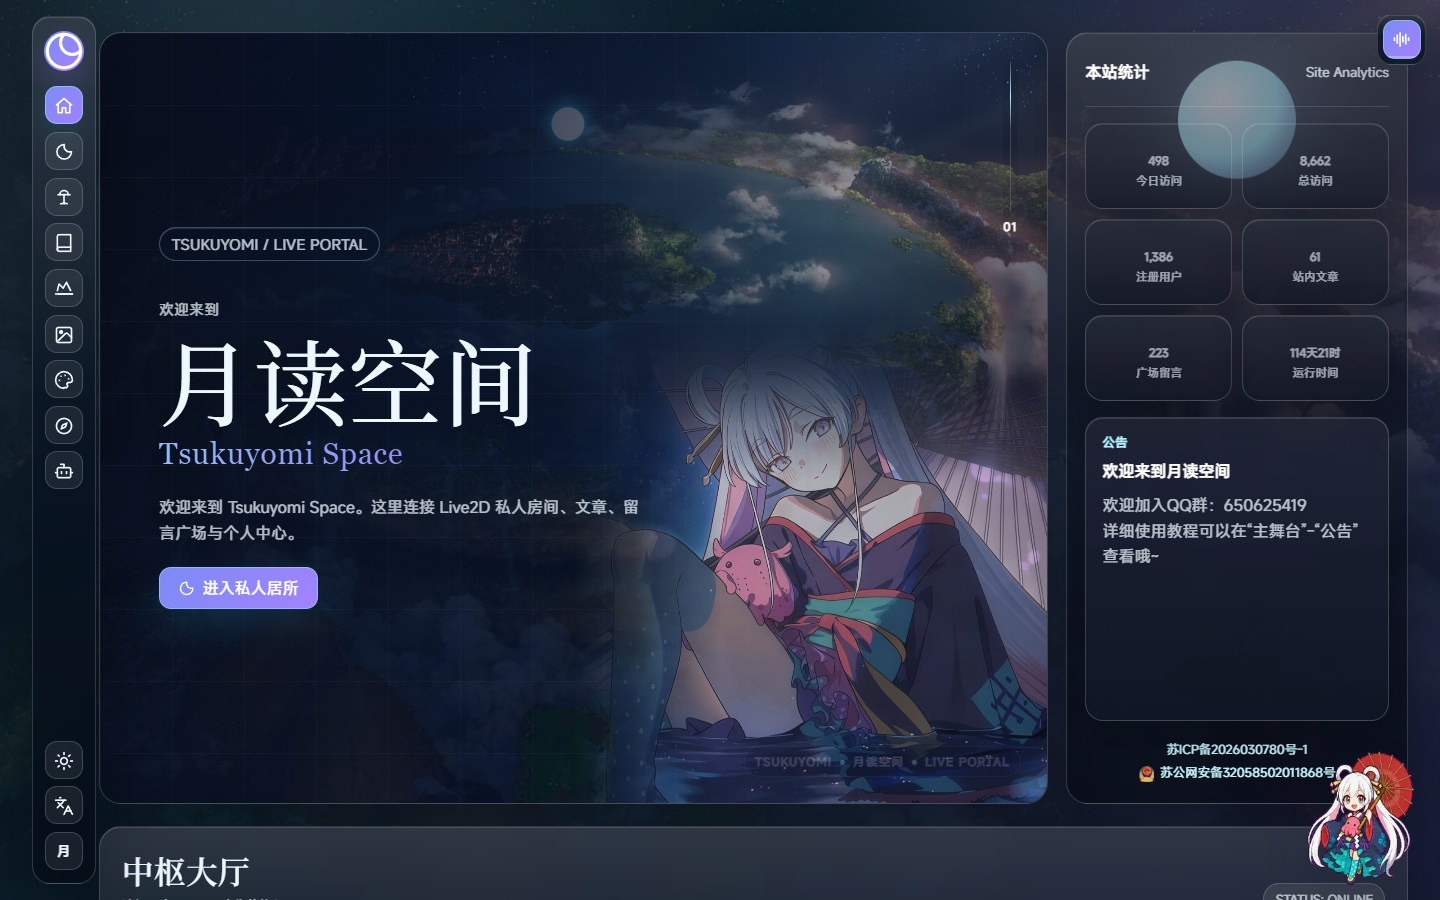
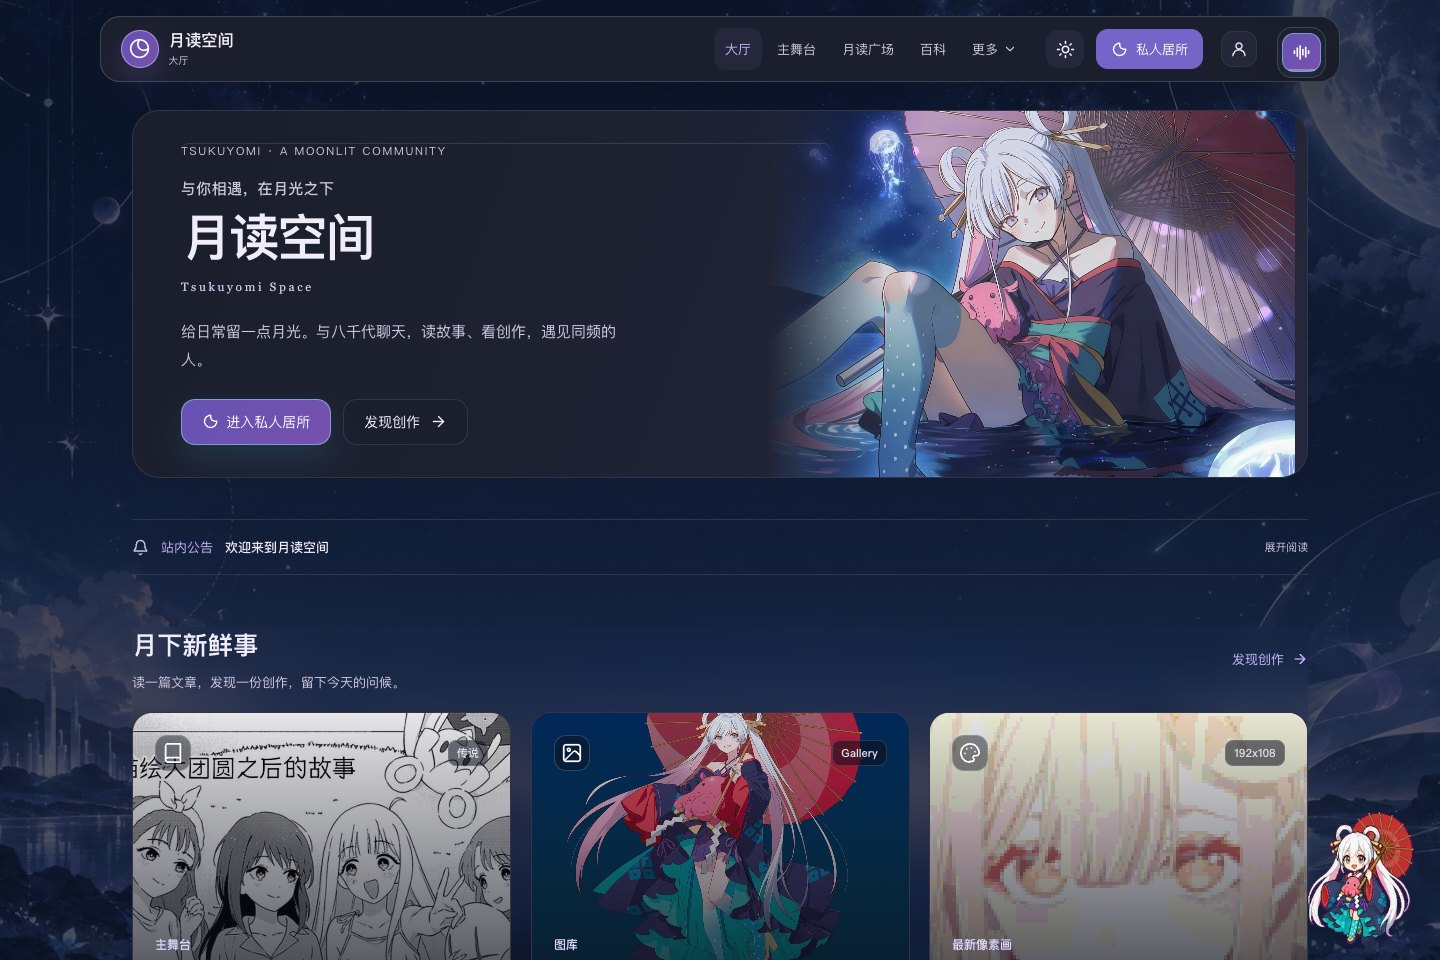
docs: refresh README and screenshots for redesigned frontend

diff --git a/README.md b/README.md
@@ -1,54 +1,160 @@
-# Tsukuyomi Space
-一个围绕《超时空辉夜姬！》世界观构建的非盈利同人社区与 Live2D AI 角色空间。
+# 月读空间 · Tsukuyomi Space
 
-项目以 Vue 3 与 Express 构建，把 Live2D 角色陪伴、账号隔离的长期记忆、内容创作、社区互动、成长任务和公开 Wiki 连接在同一个月读空间中。
+**给日常留一点月光。与八千代聊天，读故事、看创作，遇见同频的人。**
 
-## 在线访问
+围绕《超时空辉夜姬！》世界观构建的非盈利同人社区，以 Vue 3 + Express 连接 Live2D AI 陪伴、内容创作、社区互动与作品百科。
 
-| 站点 | 地址 | 语言与用途 |
-| --- | --- | --- |
-| 国内站 | [yachiyo.hk](https://yachiyo.hk) | 中文 / 日语切换，完整功能入口 |
-| 海外站 | [tsukuyomi-space.com](https://tsukuyomi-space.com) | 英文界面，海外访问入口 |
-| 站点动态 | [RSS](https://yachiyo.hk/feed.xml) · [JSON](https://yachiyo.hk/api/site-feed) | 文章、留言、图库、像素画与友链更新 |
+[国内站 · 中文 / 日语](https://yachiyo.hk) · [海外站 · English](https://tsukuyomi-space.com) · [部署指南](docs/DEPLOY.md) · [问题反馈](https://github.com/redchenk/tsukuyomi-space/issues)
 
-[![Tsukuyomi Space Hub](assets/images/readme/hub.jpg)](https://yachiyo.hk/hub)
+[项目预览](#项目预览) · [核心体验](#核心体验) · [快速开始](#快速开始) · [部署与配置](#部署与配置) · [开发文档](#开发文档) · [支持项目](#支持项目)
+
+[![月读空间新版首页：月光主题、私人居所入口与月下新鲜事](assets/images/readme/hub.jpg)](https://yachiyo.hk/hub)
 
 ## 项目预览
 
-| [Hub 中枢大厅](https://yachiyo.hk/hub) | [Live2D AI 私人房间](https://yachiyo.hk/room) |
+以下截图采集于 **2026-09-16**，来自国内站公开页面，使用 1440 × 960 桌面视口、未登录状态。站点内容与时间、天气场景会持续变化。
+
+| Live2D AI 私人居所 | 主舞台 · 文章与创作 |
 | --- | --- |
-| ![Hub 中枢大厅](assets/images/readme/hub.jpg) | ![Live2D AI 私人房间](assets/images/readme/room.jpg) |
-| [192×108 像素工坊](https://yachiyo.hk/pixel) | [超时空辉夜姬 Wiki](https://yachiyo.hk/wiki) |
-| ![192×108 像素工坊](assets/images/readme/pixel.jpg) | ![超时空辉夜姬 Wiki](assets/images/readme/wiki.jpg) |
+| [![Live2D AI 私人居所](assets/images/readme/room.jpg)](https://yachiyo.hk/room) | [![主舞台文章列表](assets/images/readme/stage.jpg)](https://yachiyo.hk/stage) |
+| **192 × 108 像素工坊** | **超时空辉夜姬 Wiki** |
+| [![像素工坊画布与绘画工具](assets/images/readme/pixel.jpg)](https://yachiyo.hk/pixel) | [![超时空辉夜姬百科首页](assets/images/readme/wiki.jpg)](https://yachiyo.hk/wiki) |
 
-## 支持项目
+## 核心体验
 
-如果月读空间为你带来了帮助，可以通过爱发电自愿支持服务器、对象存储、CDN 与持续维护。支持不会影响站内功能、内容审核或用户权限。
+- **与八千代相伴**：Live2D 角色、聊天、表情、TTS、音乐和天气场景组合成私人居所；可连接云端 LLM 或本机 Ollama，并通过 MCP 扩展工具。
+- **让对话延续**：登录后的会话与长期记忆按账号隔离、跨设备同步；支持记忆管理、角色知识库，以及角色日记和人设备份导入。
+- **创作与交流**：在主舞台阅读文章，在月读广场留言，在图库分享作品，或用固定 192 × 108 画布绘制、发布和导出像素画。
+- **探索作品世界**：公开 Wiki 汇集角色、世界观、音乐与制作资料；节奏跑酷游戏提供键盘、触控和全屏游玩。
+- **记录每天的相遇**：月契成长中心包含签到、每日任务、连续奖励与邀请成长；站内通知帮助追踪互动。
+- **统一的月光界面**：深色 / 浅色主题、响应式导航与共享设计变量贯穿主要页面，国内站支持中文 / 日语，海外站提供英文入口。
 
-<p align="center">
-  <a href="https://www.ifdian.net/a/redchenk?utm_source=copylink&amp;utm_medium=link">
-    <img src="assets/images/support/afdian-redchenk.jpg" width="360" alt="通过爱发电支持 redchenk 和月读空间">
-  </a>
-</p>
+## 快速开始
 
-<p align="center"><a href="https://www.ifdian.net/a/redchenk?utm_source=copylink&amp;utm_medium=link">前往爱发电支持月读空间</a></p>
+使用 **Node.js 22.12+**；当前 Vite 也支持 Node.js 20.19+。在仓库根目录安装依赖即可，无需在 `backend/` 重复安装。
 
-## 亮点
+```bash
+git clone https://github.com/redchenk/tsukuyomi-space.git
+cd tsukuyomi-space
+npm ci
+npm run dev
+```
 
-- **Live2D AI 房间**：天气与时间驱动场景，支持浏览器侧 LLM、Ollama、TTS、音乐、图片输入和 Live2D 表情协同。
-- **跨端私人记忆**：会话与长期记忆按账号隔离，通过实时事件同步；支持本地向量检索和可选 Milvus。
-- **用户成长循环**：每日签到、首次聊天、每日分享、轮换内容任务、连续七天奖励和邀请成长，等级会出现在用户与内容身份区域。
-- **真实内容社区**：文章、留言、图库、附件、像素画和友链均有发布、点赞、实时刷新、个人管理与管理员审核流程。
-- **传播与分享**：文章和像素作品提供社交媒体跳转；Room 可发布选定对话片段，并为分享链接生成独立 OG 信息。
-- **超时空辉夜姬 Wiki**：角色、世界观、音乐、制作与衍生资料拥有独立词条、搜索入口和服务端爬虫页面。
-- **多语言与双站部署**：国内站支持中文 / 日语切换，海外站提供强制英文构建，共享同一套功能与安全策略。
-- **全局 AI 向导**：右下角八千代宠物可复用 Room 的 LLM 配置回答站内功能问题，未配置时提供固定帮助。
-- **账号与通知**：支持注册、QQ OAuth、邮箱验证、密码找回、QQ 解绑、Cookie 会话、未读角标和服务端分页站内信。
-- **对象存储与动态订阅**：支持本地磁盘、S3 兼容存储和阿里云 OSS；提供 JSON 站点动态与 RSS。
-- **轻量而完整的部署**：支持 Docker Compose 或 PM2 + Nginx / OpenResty，数据库、上传目录、应用源码和备份分权管理。
-- **纵深安全边界**：包含严格 CSP、安全响应头、CSRF 来源校验、重复 JSON 键拒绝、上传检测、SSRF 防护和分级管理权限。
+开发命令会同时启动前端与 API：
 
-## 核心模块
+| 服务 | 地址 |
+| --- | --- |
+| Vite 前端 | http://localhost:5173/ |
+| API 健康检查 | http://localhost:3000/api/health |
+
+开发环境默认使用本地 SQLite，数据库迁移会在 API 启动时自动执行。Redis、Milvus、SMTP 和第三方 AI 服务按需配置；聊天与语音能力需要在房间设置中配置相应服务。额外音乐、视频背景等大资源需单独准备，详见[部署指南](docs/DEPLOY.md)。
+
+### 常用命令
+
+| 命令 | 用途 |
+| --- | --- |
+| `npm run dev` | 同时启动 API 与前端 |
+| `npm run dev:api` / `npm run dev:web` | 单独启动 API / 前端 |
+| `npm run build:web` | 构建前端到 `dist/frontend/` |
+| `npm run build:web:overseas` | 使用海外环境配置构建英文站 |
+| `npm run build:live2d` | 重新构建 Live2D 房间运行时 |
+| `npm run dev:live2d-studio` | 启动 Live2D Studio 开发服务 |
+| `npm test` | 运行语法检查、API 与前端回归测试 |
+| `npm run test:api` / `npm run test:frontend` | 单独运行 API / 前端回归测试 |
+| `npm run test:e2e` | 运行 Playwright 端到端测试 |
+
+运行端到端测试前，先执行 `npm run build:web`，并通过 `npx playwright install chromium` 安装浏览器；也可用 `E2E_BASE_URL` 指向已有测试服务。
+
+## 部署与配置
+
+新环境可使用 Docker Compose：
+
+```bash
+cp .env.docker.example .env.docker
+# 编辑 .env.docker，替换密钥、管理员密码与站点域名
+docker compose up -d --build
+curl http://127.0.0.1:3280/api/health
+```
+
+默认端口绑定到服务器回环地址 `127.0.0.1:3280`，对外访问需配置反向代理与 HTTPS。SQLite 与上传文件分别持久化到 `tsukuyomi-data` 和 `tsukuyomi-uploads` 命名卷。
+
+| 配置 | 说明 |
+| --- | --- |
+| `JWT_SECRET` | 生产必填，至少 32 字符；可用 `openssl rand -base64 48` 生成 |
+| `ADMIN_PASSWORD` | 首次创建生产管理员时必填，请替换示例密码 |
+| `CORS_ORIGINS` | 允许访问 API 的线上域名 |
+| `MAIL_CREDENTIAL_KEY` | 聚合邮箱凭据加密密钥，建议独立生成并保持稳定 |
+| `DATA_DIR` / `DB_PATH` | SQLite 持久化路径；Docker 默认使用 `/data` |
+| `REDIS_URL` | 可选，用于验证码、限流、天气缓存及 token 黑名单 |
+| `ROOM_MEMORY_VECTOR_BACKEND` | 默认使用 SQLite 本地向量检索，可选接入 Milvus |
+
+完整配置见 [`.env.example`](.env.example) 与 [`.env.docker.example`](.env.docker.example)。真实环境文件、密码和 API Key 不应提交到仓库。
+
+- **Docker 更新**：`bash deploy/docker-deploy.sh`。
+- **PM2 + Nginx / OpenResty**：支持现有服务器部署，步骤见[部署指南](docs/DEPLOY.md)。
+- **可选服务与大资源**：Redis / Milvus profile、模型、音乐与视频的只读挂载均见部署指南。
+- **数据库迁移**：启动时自动执行 `backend/db/migrations/`；生产更新前先备份。部署备份与数据库备份默认各保留最近 10 份，可通过 `BACKUP_RETENTION` 调整。
+
+## 开发文档
+
+| 文档 | 内容 |
+| --- | --- |
+| [部署与运维](docs/DEPLOY.md) | Docker、PM2、反向代理、资源挂载、备份与恢复 |
+| [权限模型](docs/PERMISSIONS.md) | 用户、管理员与超级管理员的权限边界 |
+| [Room 长期记忆](docs/ROOM_MEMORY.md) | 记忆存储、检索与用户隔离 |
+| [Room 渲染性能](docs/room-rendering-performance.md) | Live2D 渲染与性能策略 |
+| [Wiki 维护](docs/WIKI.md) | 百科内容与页面维护 |
+| [文章排序](docs/article-ranking.md) | 文章排序与读者互动指标 |
+| [文章封面](docs/FEATURE_COVER_IMAGE.md) | 封面图片功能说明 |
+
+
+## 技术栈
+
+- 前端：Vue 3、Vite、CSS3、原生 JavaScript、Live2D Cubism、Anime.js、Lucide 图标
+- 后端：Node.js、Express、better-sqlite3
+- 数据与缓存：SQLite、可选 Redis、可选 Milvus 向量库
+- 认证：JWT、Cookie、bcryptjs、QQ OAuth、邮箱验证码
+- 存储：本地受控上传、S3 兼容对象存储 / 阿里云 OSS
+- 集成：Agent OS、MCP、RSS / JSON Feed、多邮箱聚合 API
+- 测试：node:test、Playwright
+- 部署：Docker Compose、PM2、Nginx / OpenResty、GitHub Actions、SSH、国内 / 海外双站
+
+## 项目结构
+
+```text
+tsukuyomi-space/
+├── assets/          # 图片、README 示例图、图标、音频和样式等静态资源
+├── backend/         # Express API、SQLite 初始化、路由和中间件
+├── deploy/          # PM2、Nginx、部署脚本样例
+├── docs/            # 部署和维护文档
+├── docker-compose.yml # Docker Compose 生产部署入口
+├── dist/frontend/   # npm run build:web 生成的 Vue 前端产物
+├── live2d-studio/   # Live2D Studio 独立前端
+├── lib/             # Live2D / 前端运行库
+├── models/          # Live2D 模型资源
+├── src/frontend/    # Vue 3 + Vite 主线前端源码
+│   └── styles/      # 设计系统 token、主题、组件、动画和响应式规则
+├── tests/           # API 与 Playwright 端到端测试
+├── .env.example     # 生产环境变量模板
+└── package.json     # 项目脚本与依赖
+```
+
+## 设计系统
+
+前端设计系统位于 `src/frontend/styles/`，用于稳定“简约清爽 + 现代感 + 二次元动漫风格”的整体视觉：
+
+- `tokens.css`：色彩、字体、间距、圆角、阴影、动效时长等基础 token
+- `themes.css`：深色 / 浅色主题变量，以及旧变量名兼容映射
+- `components.css`：按钮、卡片、面板、导航、输入框等通用组件样式
+- `animations.css`：全局背景动效、页面入场和动效节奏
+- `responsive.css`：全局移动端断点和导航响应式规则
+
+新增页面优先使用 `--ts-*` 变量；旧的 `--moon-*`、`--panel`、`--radius` 等变量会继续映射到设计系统，便于逐步迁移。
+
+<details>
+<summary>查看完整模块与 Room / Agent 使用说明</summary>
+
+### 完整模块列表
 
 | 模块 | 说明 |
 | --- | --- |
@@ -69,106 +175,7 @@
 | Terminal | 管理用户权限、友链、访问统计、对象存储和系统配置 |
 | Reality | 联系方式、隐私说明、责任边界和第三方技术 / 素材来源 |
 
-## 技术栈
-
-- 前端：Vue 3、Vite、CSS3、原生 JavaScript、Live2D Cubism、Anime.js、Lucide 图标
-- 后端：Node.js、Express、better-sqlite3
-- 数据与缓存：SQLite、可选 Redis、可选 Milvus 向量库
-- 认证：JWT、Cookie、bcryptjs、QQ OAuth、邮箱验证码
-- 存储：本地受控上传、S3 兼容对象存储 / 阿里云 OSS
-- 集成：Agent OS、MCP、RSS / JSON Feed、多邮箱聚合 API
-- 测试：node:test、Playwright
-- 部署：Docker Compose、PM2、Nginx / OpenResty、GitHub Actions、SSH、国内 / 海外双站
-
-## 设计系统
-
-前端设计系统位于 `src/frontend/styles/`，用于稳定“简约清爽 + 现代感 + 二次元动漫风格”的整体视觉：
-
-- `tokens.css`：色彩、字体、间距、圆角、阴影、动效时长等基础 token
-- `themes.css`：深色 / 浅色主题变量，以及旧变量名兼容映射
-- `components.css`：按钮、卡片、面板、导航、输入框等通用组件样式
-- `animations.css`：全局背景动效、页面入场和动效节奏
-- `responsive.css`：全局移动端断点和导航响应式规则
-
-新增页面优先使用 `--ts-*` 变量；旧的 `--moon-*`、`--panel`、`--radius` 等变量会继续映射到设计系统，便于逐步迁移。
-
-## 快速开始
-
-需要 Node.js 20 或以上版本。
-
-```bash
-npm install
-npm run dev
-```
-
-开发环境会并行启动 API 和前端：
-
-- 前端开发服务：`http://localhost:5173/`
-- API 服务：`http://localhost:3000/api/health`
-
-常用脚本：
-
-- `npm run dev` / `npm run dev:all`：并行启动后端 API 和 Vite 前端
-- `npm run dev:api`：只启动 Express API
-- `npm run dev:web`：只启动 Vite 前端
-- `npm test`：执行语法检查、数据库迁移、API、安全和前端回归测试
-- `npm run test:api`：执行 auth、articles、messages、admin、room memory、MCP 等接口测试
-- `npm run test:e2e`：执行 Playwright 端到端主流程测试，需要先构建前端或提供 `E2E_BASE_URL`
-- `npm run build:web`：构建 Vue 前端产物
-- `npm run build:live2d`：重新构建 Live2D 房间运行时
-
-## 项目结构
-
-```text
-tsukuyomi-space/
-├── assets/          # 图片、README 示例图、图标、音频和样式等静态资源
-├── backend/         # Express API、SQLite 初始化、路由和中间件
-├── deploy/          # PM2、Nginx、部署脚本样例
-├── docs/            # 部署和维护文档
-├── docker-compose.yml # Docker Compose 生产部署入口
-├── dist/frontend/   # npm run build:web 生成的 Vue 前端产物
-├── lib/             # Live2D / 前端运行库
-├── models/          # Live2D 模型资源
-├── src/frontend/    # Vue 3 + Vite 主线前端源码
-│   └── styles/      # 设计系统 token、主题、组件、动画和响应式规则
-├── tests/           # API 与 Playwright 端到端测试
-├── .env.example     # 生产环境变量模板
-└── package.json     # 项目脚本与依赖
-```
-
-## 配置
-
-生产环境必须设置：
-
-- `NODE_ENV=production`
-- `JWT_SECRET`：至少 32 字符，建议用 `openssl rand -base64 48` 生成
-- `MAIL_CREDENTIAL_KEY`：用于加密聚合邮箱凭据，建议使用与 JWT 不同的独立随机密钥
-- `ADMIN_PASSWORD`：首次创建或重置管理员时使用
-- `CORS_ORIGINS`：线上域名，例如 `https://your-domain.example`
-- `DATA_DIR` 或 `DB_PATH`：SQLite 数据库存放路径
-- `REDIS_URL`：可选，例如 `redis://127.0.0.1:6379/0`。配置后验证码、限流、天气缓存、登录失败次数和 token 黑名单会优先使用 Redis；未配置或 Redis 暂不可用时会退回进程内存储。
-
-复制 `.env.example` 到服务器的 `/etc/tsukuyomi-space/tsukuyomi-space.env`。真实 `.env`、密码、API Key 不应提交到仓库。
-
-## 数据库迁移
-
-启动时会自动执行 `backend/db/migrations/` 下按版本号排序的迁移脚本，并把执行记录写入 `schema_migrations` 表。
-
-生产部署前必须先备份 SQLite。`deploy/deploy.sh` 会在安装依赖、构建和 PM2 reload 前自动备份 `DB_PATH` 或 `DATA_DIR/tsukuyomi.db` 到 `BACKUP_DIR`，默认目录是 `/var/backups/tsukuyomi-space/deploy`。脚本会分别清理该目录和 `DATABASE_BACKUP_DIR`（默认 `DATA_DIR/backups`），每处只保留由 `BACKUP_RETENTION` 指定的最新备份，默认 10 份。
-
-新增迁移时使用 `NNN_description.js` 命名，例如 `003_add_article_indexes.js`，并导出：
-
-```js
-module.exports = {
-  version: '003',
-  name: 'add_article_indexes',
-  up(db) {
-    db.exec('CREATE INDEX IF NOT EXISTS idx_articles_status ON articles(status)');
-  }
-};
-```
-
-## Room / Agent 能力
+### Room / Agent 能力
 
 Room 页面正在向个人 Agent 方向演进，当前能力包括：
 
@@ -201,7 +208,7 @@ Room 相关设置主要保存在浏览器本地，包括：
 [Environment]::SetEnvironmentVariable('OLLAMA_ORIGINS','https://yachiyo.hk,https://yachiyo.com.cn,https://cho-kaguyahime.cn','User')
 ```
 
-## 内容、分享与订阅
+### 内容、分享与订阅
 
 - 文章、留言、图库、像素画和友链等公开列表使用路径级缓存破坏与服务端缓存失效，发布后会请求最新内容。
 - 文章详情和像素作品提供复制链接及社交媒体分享入口；用户分享行为会进入每日成长任务，但奖励只由服务端判定一次。
@@ -216,46 +223,11 @@ Room 相关设置主要保存在浏览器本地，包括：
 VITE_SITE_LANGUAGE=en npm run build:web
 ```
 
-## Docker 快速部署
-
-```bash
-cp .env.docker.example .env.docker
-# 修改 JWT_SECRET、ADMIN_PASSWORD、CORS_ORIGINS 等生产配置
-docker compose up -d --build
-curl http://127.0.0.1:3280/api/health
-
-# Optional on a sufficiently large host: enable Milvus before importing the persona corpus.
-docker compose --profile milvus up -d
-docker compose cp ./data/yachiyo_novel_detailed_corpus.txt tsukuyomi-space:/data/yachiyo_novel_detailed_corpus.txt
-docker compose exec tsukuyomi-space npm run import:yachiyo -- --file /data/yachiyo_novel_detailed_corpus.txt --clear
-```
-
-Docker 部署会把 SQLite 持久化到 Compose 命名卷 `tsukuyomi-data`，容器内路径为 `/data/tsukuyomi.db`。SQLite 向量检索是默认的轻量记忆后端；Milvus 通过 `milvus` profile 按需启用。服务器本地额外音乐、视频背景和 Live2D 模型推荐通过 `docker-compose.resources.example.yml` 只读挂载，不打进镜像。
-
-推荐更新命令：
-
-```bash
-bash deploy/docker-deploy.sh
-```
-
-## 部署
-
-推荐新环境优先使用 Docker Compose；现有服务器也可以继续使用 PM2 运行后端，Nginx 处理静态文件并反向代理 `/api/`：
-
-```bash
-bash deploy/deploy.sh
-
-# PM2 deployments can import the persona corpus from the host filesystem.
-ROOM_MEMORY_VECTOR_BACKEND=milvus MILVUS_ADDRESS=127.0.0.1:19530 npm run import:yachiyo -- --file "E:\visualstudio\yachiyo_novel_detailed_corpus.txt" --clear
-```
-
-完整步骤见 [docs/DEPLOY.md](docs/DEPLOY.md)。
-
-当前生产环境采用国内完整应用与海外英文静态前端双站部署。前端通过带哈希的静态资源和原子 release 切换发布，避免更新过程中出现混合版本。
+</details>
 
 ## 安全说明
 
-- 生产环境没有强 `JWT_SECRET` 会拒绝启动。
+- 生产环境的 `JWT_SECRET` 少于 32 字符时会拒绝启动。
 - 生产环境首次创建管理员时必须提供 `ADMIN_PASSWORD`。
 - 管理员终端所有数据接口都需要管理员 JWT。
 - API 已加入基础安全响应头、CORS 白名单和 Redis 优先的限流。
@@ -267,6 +239,18 @@ ROOM_MEMORY_VECTOR_BACKEND=milvus MILVUS_ADDRESS=127.0.0.1:19530 npm run import:
 - 权限模型见 [docs/PERMISSIONS.md](docs/PERMISSIONS.md)。
 - Room 长期记忆说明见 [docs/ROOM_MEMORY.md](docs/ROOM_MEMORY.md)。
 
+## 支持项目
+
+如果月读空间为你带来了帮助，可以通过爱发电自愿支持服务器、对象存储、CDN 与持续维护。支持不会影响站内功能、内容审核或用户权限。
+
+<p align="center">
+  <a href="https://www.ifdian.net/a/redchenk?utm_source=copylink&amp;utm_medium=link">
+    <img src="assets/images/support/afdian-redchenk.jpg" width="240" alt="通过爱发电支持 redchenk 和月读空间">
+  </a>
+</p>
+
+<p align="center"><a href="https://www.ifdian.net/a/redchenk?utm_source=copylink&amp;utm_medium=link">前往爱发电支持月读空间</a></p>
+
 ## 技术与素材来源
 
 - Agent OS 页面音乐 App 的技术实现来源于 [firefly20041001/Yachiyo](https://github.com/firefly20041001/yachiyo)，原项目采用 Electron、React、TypeScript，并以 Apache-2.0 许可证发布。
@@ -276,4 +260,4 @@ ROOM_MEMORY_VECTOR_BACKEND=milvus MILVUS_ADDRESS=127.0.0.1:19530 npm run import:
 
 ## License
 
-项目自有代码以 MIT 许可证发布。第三方代码、模型、音乐、图片和角色素材分别遵循其原始许可证与权利声明。
+项目自有代码以 [MIT 许可证](LICENSE)发布。第三方代码、模型、音乐、图片和角色素材分别遵循其原始许可证与权利声明。
